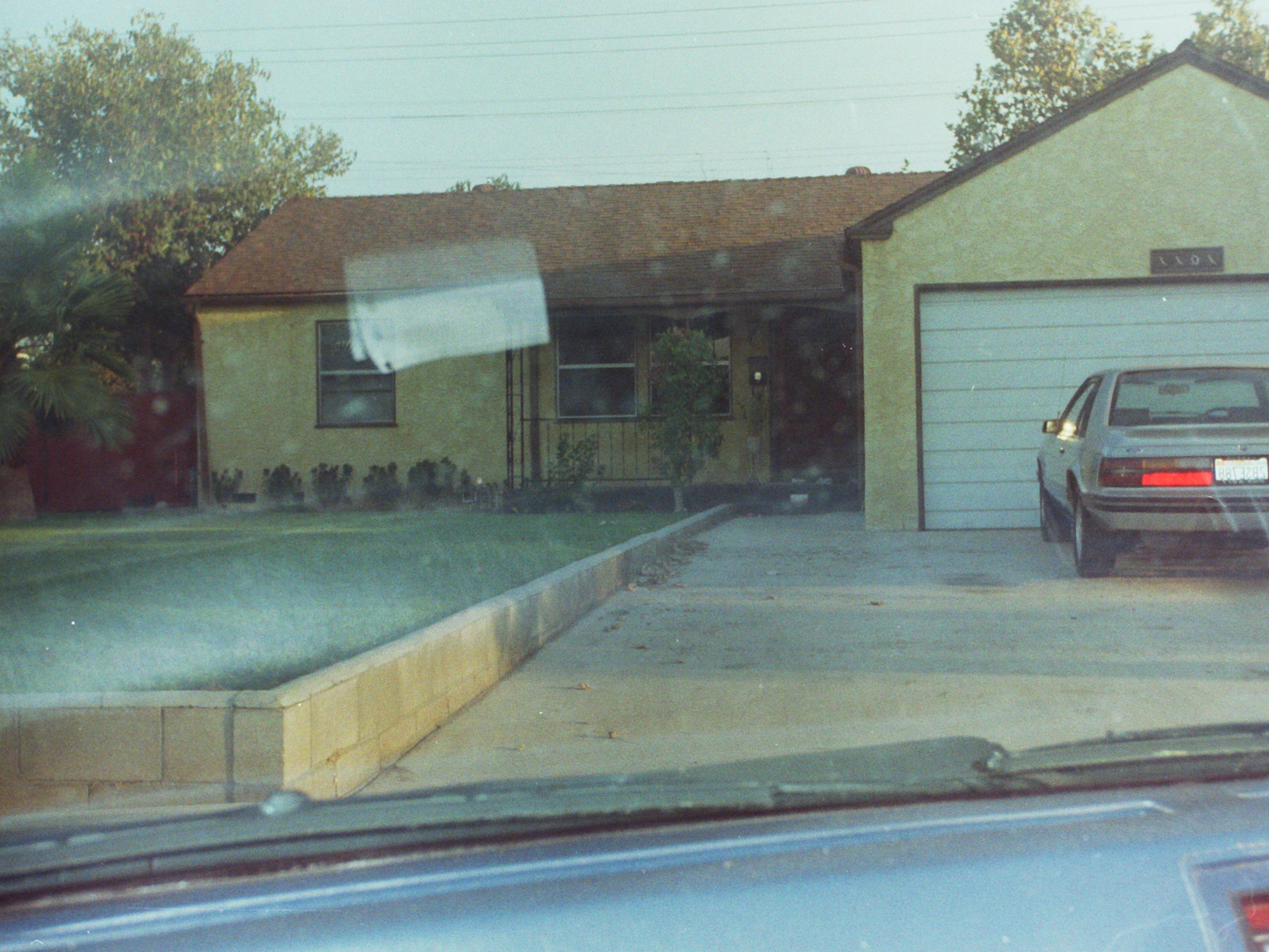
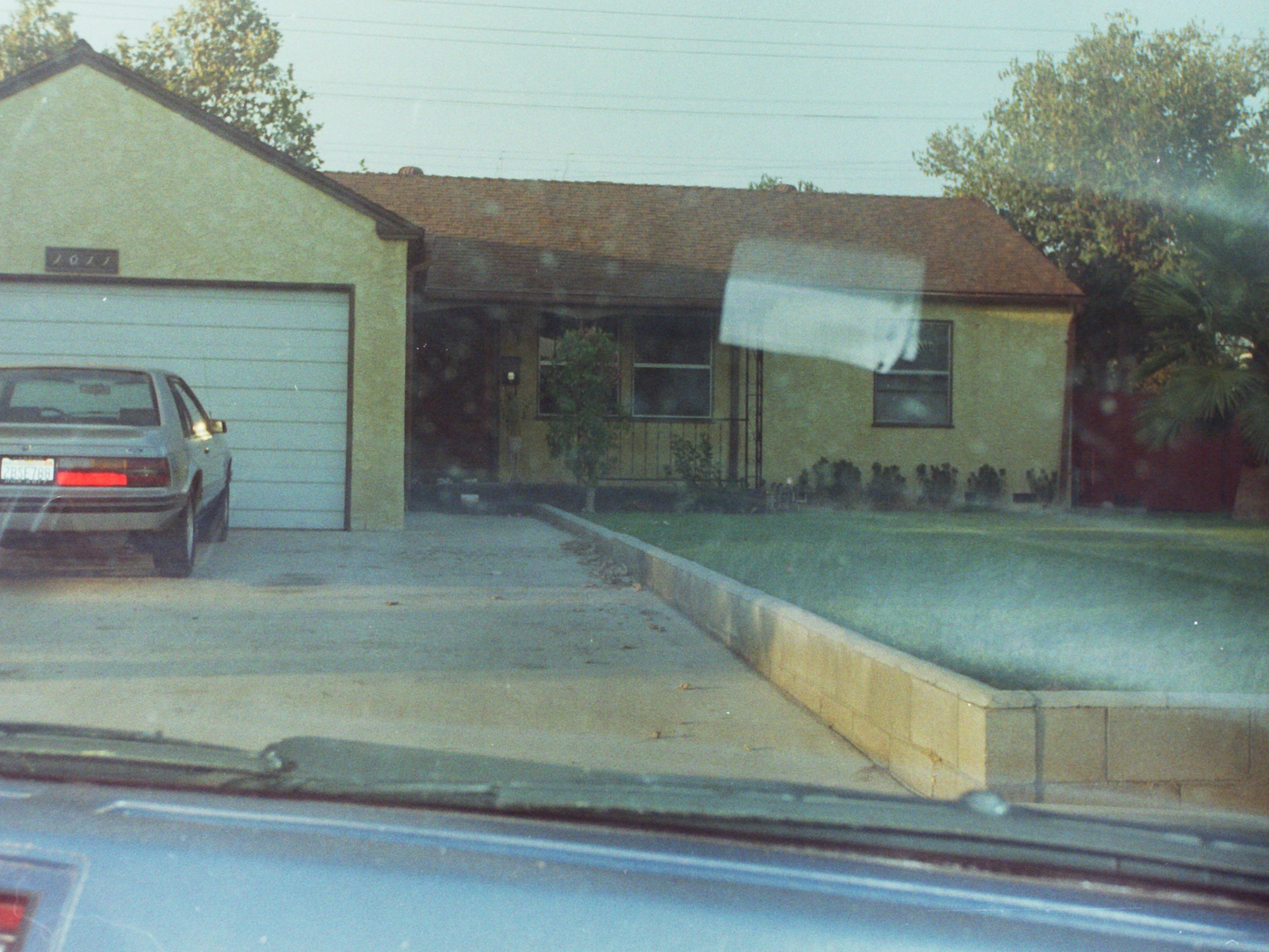
updateee

diff --git a/final/index.html b/final/index.html
@@ -1,7 +1,7 @@
 <!DOCTYPE html>
 <html>
 <head>
-    <title>Collected Memories Index</title>
+    <title>Collected Memories</title>
     <link rel="stylesheet" href="main.css">
     <script>
   (function(d) {
